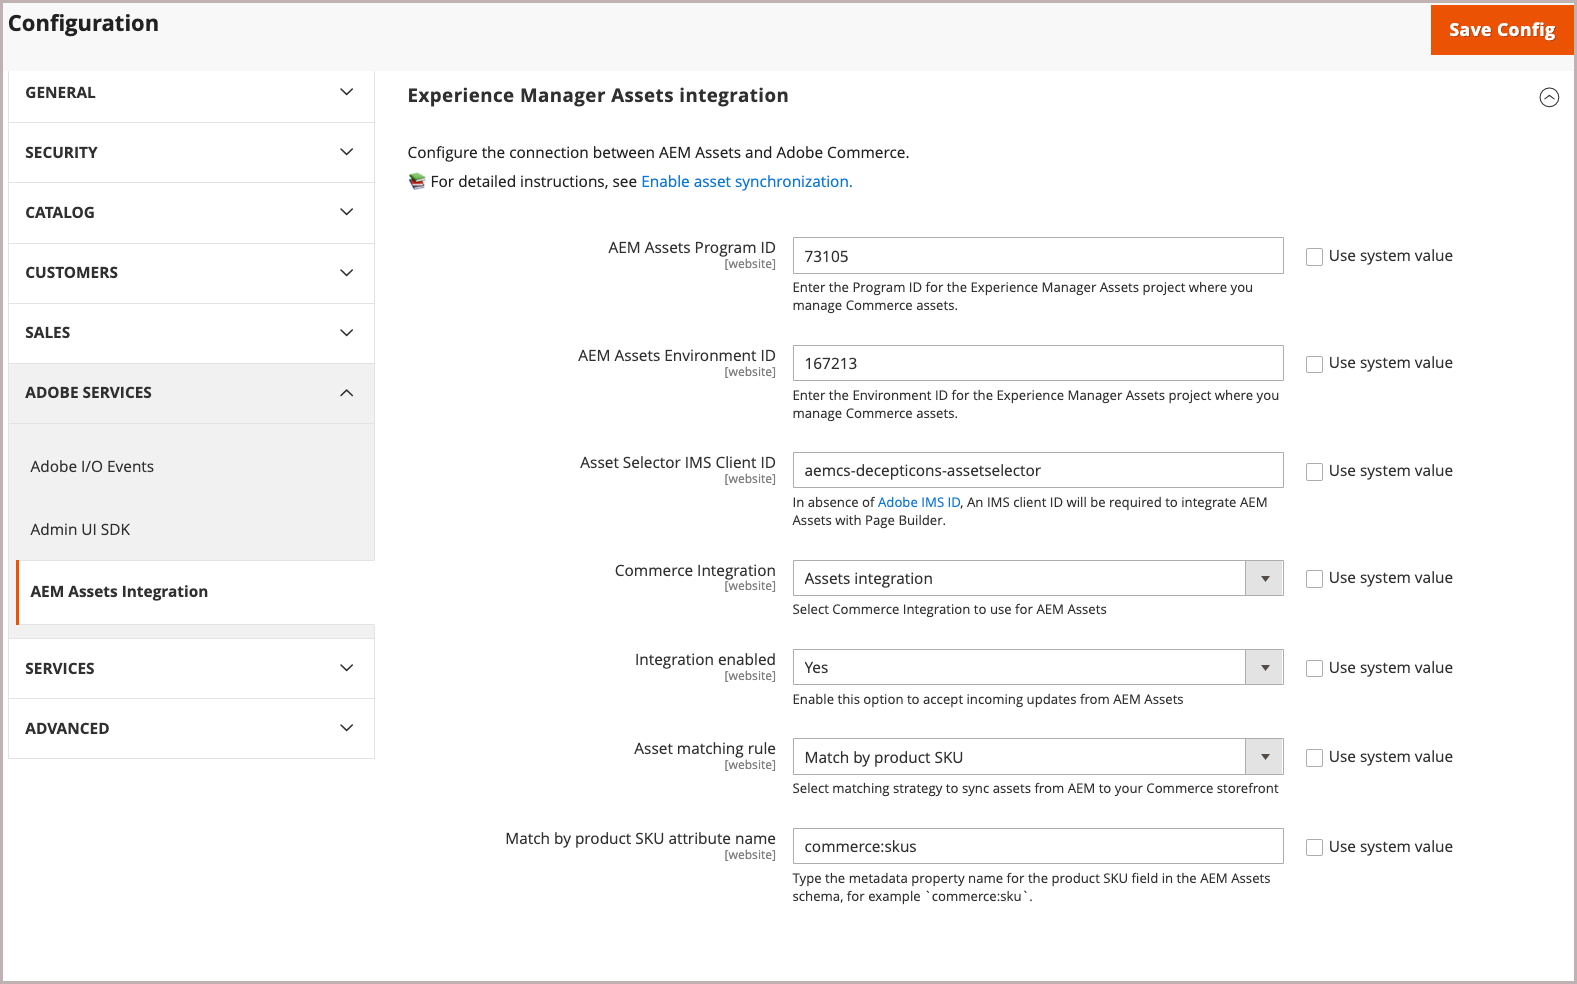
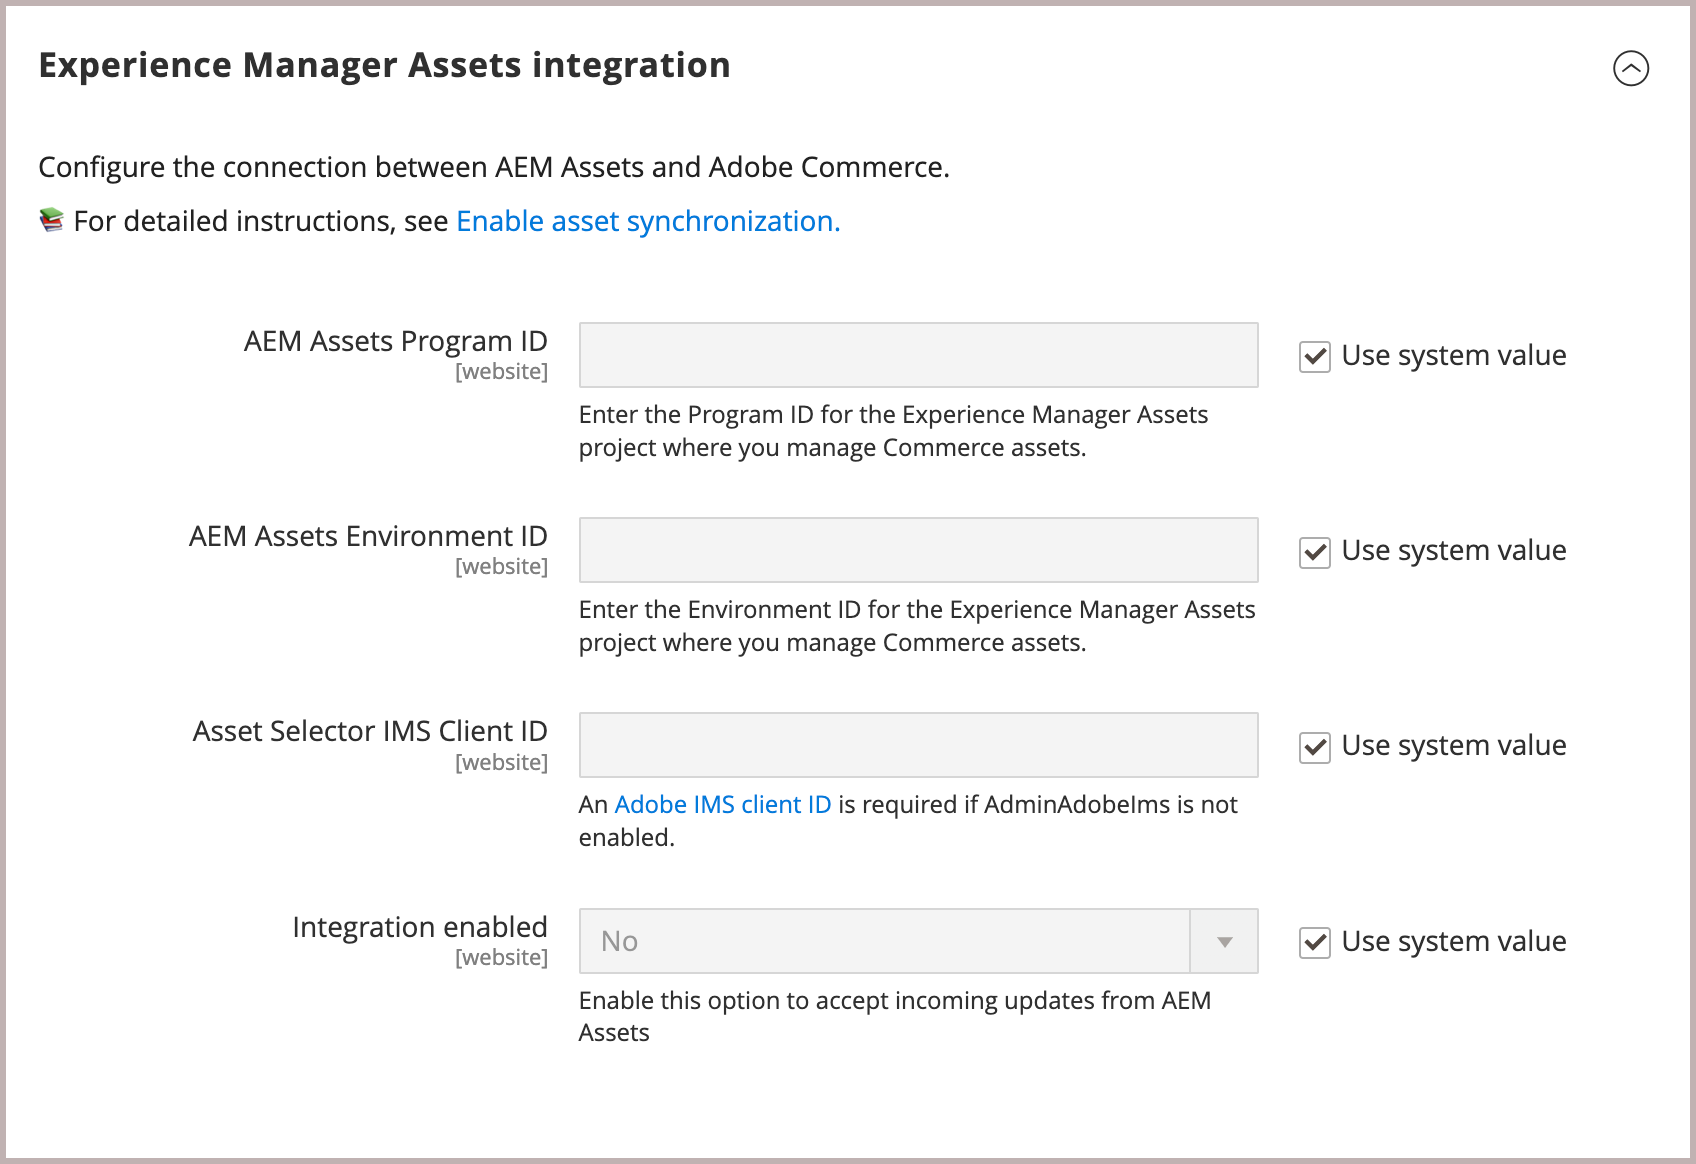
- Clean up "Enable asset synchronization" topic   - Update screen captures   - Provide link to Asset Selector IMS credential   documentation - Change metadata field name to "Eligible for Commerce" - Editorial updates and corrections

diff --git a/help/content-design/aem-assets-setup-synchronization.md b/help/content-design/aem-assets-setup-synchronization.md
@@ -6,9 +6,9 @@ exl-id: cc3ae56b-f1c8-4c96-a284-bcd726ce2bab
 ---
 # Enable asset synchronization
 
-During the enablement process, you register the tenant ID for the project using the program and environment ID for your AEM authoring environment. These IDs identify the AEM Assets project that you are connecting to, and provide the credentials to enable communication between the Commerce and AEM Assets environments.
+Enable asset synchronization by updating the Commerce environment configuration to connect Commerce to the AEM Assets instance. The integration enables the synchronization of assets between Commerce and AEM Assets, ensuring that product images and other assets are always up to date.
 
-After identifying the AEM assets project, you select the matching rule for synchronizing assets between Adobe Commerce and AEM Assets.
+After identifying the AEM assets project, select the matching rule for synchronizing assets between Adobe Commerce and AEM Assets.
 
 - **[!UICONTROL Match by product SKU]**—Default rule that matches the SKU in the asset metadata with the [Commerce product SKU](https://experienceleague.adobe.com/en/docs/commerce-operations/implementation-playbook/glossary#sku) to ensure that assets are associated with the correct products.
 
@@ -22,11 +22,11 @@ For initial onboarding, use the default *Match by product sku* rule.
 
 - [Install and configure the AEM Assets Integration for Commerce](aem-assets-configure-commerce.md) to add the extension and generate the required credentials and connections to use the extension.
 
-- Create a support ticket to request enablement for the AEM Assets Integration. You must provide the **[!UICONTROL Program ID]**, **[!UICONTROL Environment ID]** and **[!UICONTROL IMS Org ID]**.
+- Create a support ticket to request enablement for the AEM Assets Integration. You must provide the **[!UICONTROL Program ID]**, **[!UICONTROL Environment ID]** and **[!UICONTROL IMS Org ID]** for the AEM Assets Authoring environment that you want to connect to Commerce.
 
    >[!TIP]
    >
-   > (Optional) Provide the **[!UICONTROL Asset Selector IMS Client ID]** if available.
+   > (Optional) Provide the **[!UICONTROL Asset Selector IMS Client ID]** if available. See [ImsAuthProps](https://experienceleague.adobe.com/en/docs/experience-manager-cloud-service/content/assets/manage/asset-selector/asset-selector-integration/integrate-asset-selector-adobe-app) in the *AEM Assets Selector* documentation.
 
 ## Configure the connection
 
@@ -34,8 +34,7 @@ For initial onboarding, use the default *Match by product sku* rule.
 
    1. Open the AEM Sites console and select **[!UICONTROL Assets]**.
 
-   1. Copy and save the project and environment IDs from the URL:<br>`https://author-p[Program ID]-e[EnvironmentID].adobeaemcloud.com/`|
-
+   1. Copy and save the project and environment IDs from the URL:<br>`https://author-p[Program ID]-e[EnvironmentID].adobeaemcloud.com/`
 1. From the Commerce Admin, open the AEM Assets Integration configuration.
 
    1. Go to **[!UICONTROL Store]** > Configuration > **[!UICONTROL ADOBE SERVICES]** > **[!UICONTROL AEM Assets Integration]**.
@@ -44,28 +43,28 @@ For initial onboarding, use the default *Match by product sku* rule.
 
 1. Enter the AEM Assets environment **[!UICONTROL Program ID]** and **[!UICONTROL Environment ID]**.
 
+   Edit the configuration values by removing the selection from *[!UICONTROL Use system value]*.
+
 1. Enter the **[!UICONTROL Asset Selector IMS Client ID]**, if available.
 
-   The [IMS ID](../getting-started/adobe-ims-config.md) is required by the [[!UICONTROL Assets Selector]](https://experienceleague.adobe.com/en/docs/experience-manager-cloud-service/content/assets/manage/asset-selector/overview-asset-selector), which selects images for categories and/or [!DNL Page Builder].
+   The [Asset Selector IMS Client ID](https://experienceleague.adobe.com/en/docs/experience-manager-cloud-service/content/assets/manage/asset-selector/asset-selector-integration/integrate-asset-selector-adobe-app#ims-auth-props) is required by the [!UICONTROL Assets Selector], an AEM Assets feature that allows users to embed visual assets directly into Commerce product pages.
 
 1. Select the [[!UICONTROL Commerce integration]](aem-assets-configure-commerce.md#add-the-integration-to-the-commerce-environment) for authenticating requests between Commerce and the asset matching service.
 
-1. Allow Commerce to accept incoming updates from AEM Assets by setting **[!UICONTROL Integration enabled]** to `Yes`.
+1. Set **[!UICONTROL Integration enabled]** to `Yes` to allow Commerce to accept incoming updates from AEM Assets.
 
-   After enabling the integration, configure the asset matching rule.
-
-   ![AEM Assets Integration select asset match rule](assets/aem-assets-config-matching-rule.png){width="600" zoomable="yes"}
+   After enabling the integration, additional configuration options are available to specify asset matching criteria.
 
 1. Define the matching rule for asset synchronization.
 
-   1. Select **[!UICONTROL Match by product SKU]**.
+   1. Select **[!UICONTROL Match by product SKU]**, or **[!UICONTROL Custom match (Requires App Builder)]**.
 
    1. Add the [AEM Assets metadata field name](aem-assets-configure-aem.md#configure-metadata) defined for Commerce product SKUs in the **[!UICONTROL Match by product SKU attribute name]** field, `commerce:skus` for example.
 
-     ![AEM Assets Integration select asset match rule](assets/aem-assets-config-matching-rule.png){width="600" zoomable="yes"}
+1. Select **[!UICONTROL Save Config]** to apply updates and initiate asset synchronization.
 
-1. Select **[!UICONTROL Save Config]** to apply updates and initiate asset synchronization
+   The configuration update triggers the initial synchronization process, allowing Commerce to accept incoming updates from AEM Assets.The time required for synchronization depends on the volume of assets and specific configurations. The integration leverages automated processes to minimize the time required for synchronization.
 
->[!MORELIKETHIS]
->
-> See [Manage your assets with AEM Assets](aem-assets-manage.md)for more information about managing your assets.
+## Next step
+
+[Use AEM Assets with Commerce](aem-assets-manage.md)

diff --git a/help/content-design/aem-assets-integration.md b/help/content-design/aem-assets-integration.md
@@ -32,6 +32,10 @@ Adobe Experience Manager (AEM) Assets Integration for Commerce combines the robu
 
 >[!ENDSHADEBOX]
 
+Watch this video to learn how Adobe Commerce and AEM Assets work together to streamline content workflows:
+
+>[!VIDEO](https://video.tv.adobe.com/v/3447837)
+
 ## Next step
 
 [Set up AEM Assets Integration for Commerce](aem-assets-onboard.md).
@@ -39,9 +43,3 @@ Adobe Experience Manager (AEM) Assets Integration for Commerce combines the robu
 ## Support
 
 If you need information or have questions not covered in this guide, contact your AEM Assets Integration sales representative or create a [support ticket](https://experienceleague.adobe.com/docs/commerce-knowledge-base/kb/help-center-guide/magento-help-center-user-guide.html#submit-ticket) to receive additional help.
-
-### Video tutorials
-
-Watch this video to learn how Adobe Commerce and AEM Assets work together to streamline content workflows:
-
->[!VIDEO](https://video.tv.adobe.com/v/3447837)

diff --git a/help/content-design/aem-assets-configure-aem.md b/help/content-design/aem-assets-configure-aem.md
@@ -12,7 +12,7 @@ Adobe provides an AEM project template to add the namespace and metadata schema 
 
 - A [custom namespace](https://github.com/ankumalh/assets-commerce/blob/main/ui.config/jcr_root/apps/commerce/config/org.apache.sling.jcr.repoinit.RepositoryInitializer~commerce-namespaces.cfg.json), `Commerce` to identify Commerce-related properties.
 
-- A custom metadata type `commerce:isCommerce` with the label `Does it exist in Commerce?` to tag Commerce assets associated with an Adobe Commerce project.
+- A custom metadata type `commerce:isCommerce` with the label `Eligible for Commerce` to tag Commerce assets associated with an Adobe Commerce project.
 
 - A custom metadata type `commerce:productmetadata` and a corresponding UI component to add a *[!UICONTROL Product Data]* property. Product Data includes the metadata properties to associate a Commerce asset with product SKUs, and to specify image `role` and `position` attributes for the asset.
 

diff --git a/help/content-design/TOC.md b/help/content-design/TOC.md
@@ -67,7 +67,7 @@ feature: CMS, Page Content
     - [Folder management](media-gallery-folder-management.md)
     - [Image optimization](media-gallery-image-optimization.md)
 - AEM Assets Integration for Commerce {#aem-asset-management}
-  - [AEM Assets Integration for Commerce](aem-assets-integration.md)
+  - [Integration overview](aem-assets-integration.md)
   - [Release notes](aem-assets-release-notes.md)
   - Getting started  {#onboarding}
     - [Set up AEM Assets](aem-assets-onboard.md)

diff --git a/help/content-design/aem-assets-manage.md b/help/content-design/aem-assets-manage.md
@@ -18,7 +18,7 @@ For details, see the following AEM Assets documentation.
 
 - [Approve an asset](https://experienceleague.adobe.com/en/docs/experience-manager-cloud-service/content/assets/dynamicmedia/dynamic-media-open-apis/approve-assets)
 
-## Manage an asset in categories
+## Add assets to categories content
 
 You can add assets into your catalog categories content once you have enabled and configured the AEM Assets integration:
 
